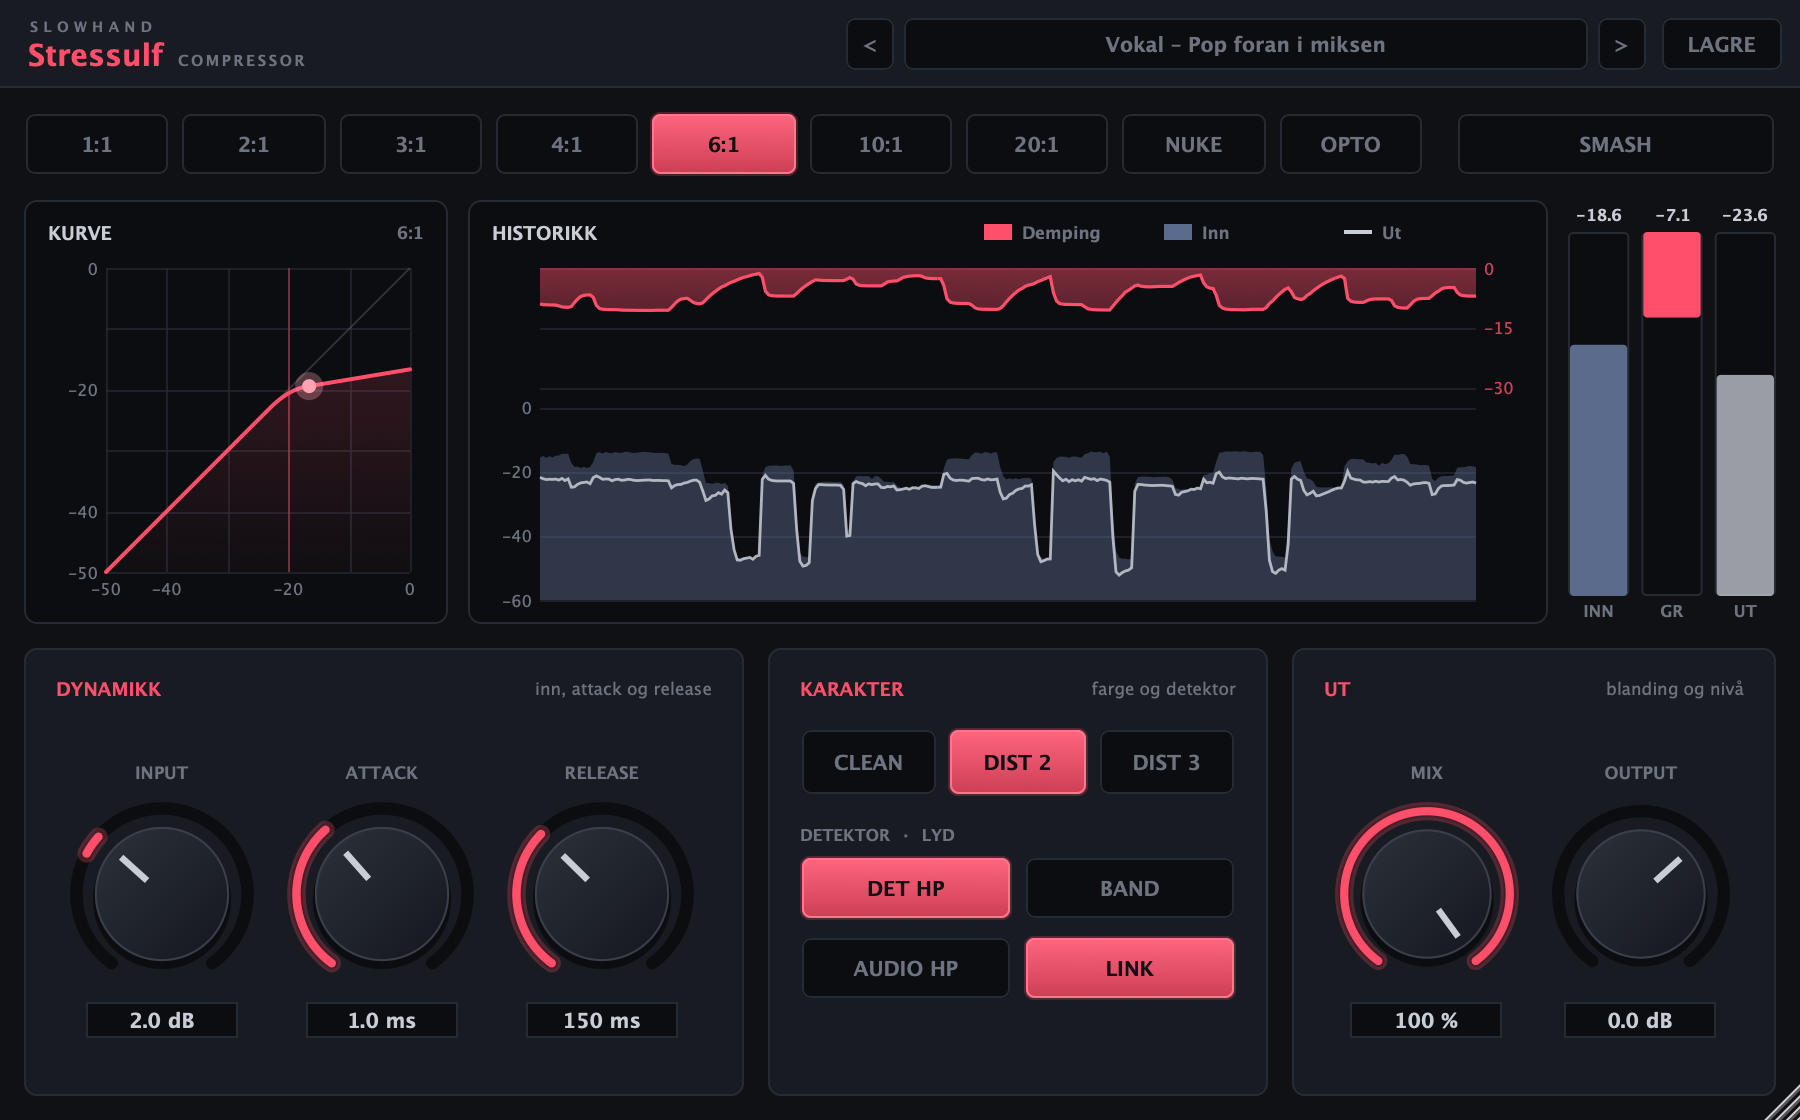
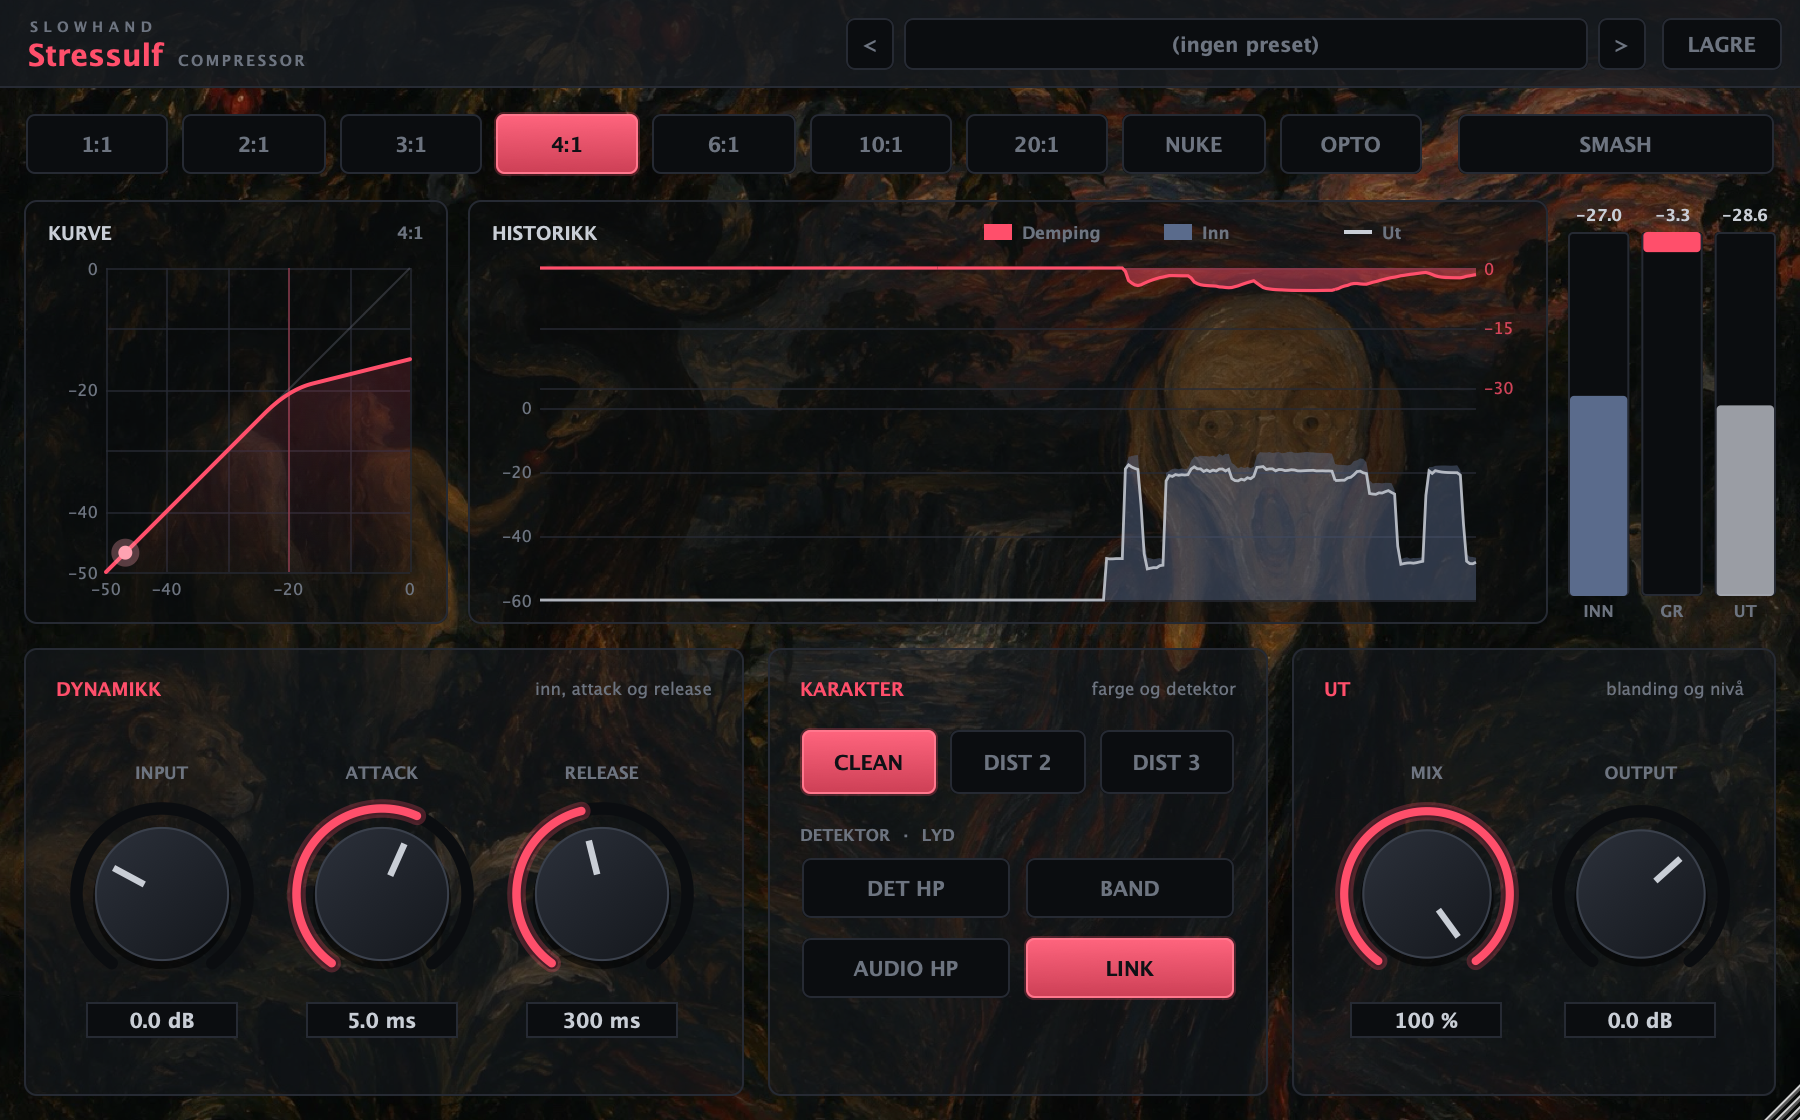
Stressulf: maleri som bakgrunn i grensesnittet

diff --git a/plugins/Stressulf/Source/PluginEditor.cpp b/plugins/Stressulf/Source/PluginEditor.cpp
@@ -1,4 +1,5 @@
 #include "PluginEditor.h"
+#include "BinaryData.h"
 
 using namespace juce;
 namespace col = sbaudio::colours;
@@ -11,7 +12,7 @@ namespace
 
     void drawWell (Graphics& g, Rectangle<float> r)
     {
-        g.setColour (col::well);
+        g.setColour (col::well.withAlpha (0.50f));
         g.fillRoundedRectangle (r, 6.0f);
         g.setColour (col::panelEdge);
         g.drawRoundedRectangle (r.reduced (0.5f), 6.0f, 1.0f);
@@ -289,6 +290,7 @@ StressulfEditor::StressulfEditor (StressulfProcessor& p)
       distButtons (*p.apvts.getParameter (ParamIDs::dist), { "CLEAN", "DIST 2", "DIST 3" }, stressCol)
 {
     setLookAndFeel (&lnf);
+    background = ImageCache::getFromMemory (BinaryData::background_jpg, BinaryData::background_jpgSize);
     addAndMakeVisible (content);
 
     content.addAndMakeVisible (presetBar);
@@ -425,9 +427,15 @@ void StressulfEditor::paintContent (Graphics& g)
 {
     const auto full = content.getLocalBounds().toFloat();
     g.fillAll (col::bg);
+    if (background.isValid())
+    {
+        g.drawImage (background, full, RectanglePlacement::centred | RectanglePlacement::fillDestination);
+        g.setColour (col::bg.withAlpha (0.12f));   // keep text and controls readable
+        g.fillRect (full);
+    }
 
     auto bar = full.withHeight (44.0f);
-    g.setColour (col::panel);
+    g.setColour (col::panel.withAlpha (0.80f));
     g.fillRect (bar);
     g.setColour (col::panelEdge);
     g.fillRect (bar.removeFromBottom (1.0f));
@@ -436,7 +444,7 @@ void StressulfEditor::paintContent (Graphics& g)
     auto panel = [&] (Rectangle<int> rr, const String& title, const String& note)
     {
         auto r = rr.toFloat();
-        g.setColour (col::panel);
+        g.setColour (col::panel.withAlpha (0.50f));
         g.fillRoundedRectangle (r, 6.0f);
         g.setColour (col::panelEdge);
         g.drawRoundedRectangle (r.reduced (0.5f), 6.0f, 1.0f);

diff --git a/plugins/Stressulf/Source/PluginEditor.h b/plugins/Stressulf/Source/PluginEditor.h
@@ -106,6 +106,7 @@ private:
     std::vector<std::unique_ptr<juce::AudioProcessorValueTreeState::ButtonAttachment>> buttonAtts;
     juce::TooltipWindow tooltips { this, 700 };
 
+    juce::Image background;   // painting behind the whole UI (Assets/background.jpg)
     juce::Rectangle<int> dynPanel, colourPanel, outPanel;
     stressulfui::Levels last;
     int framesWithoutAudio = 0;
